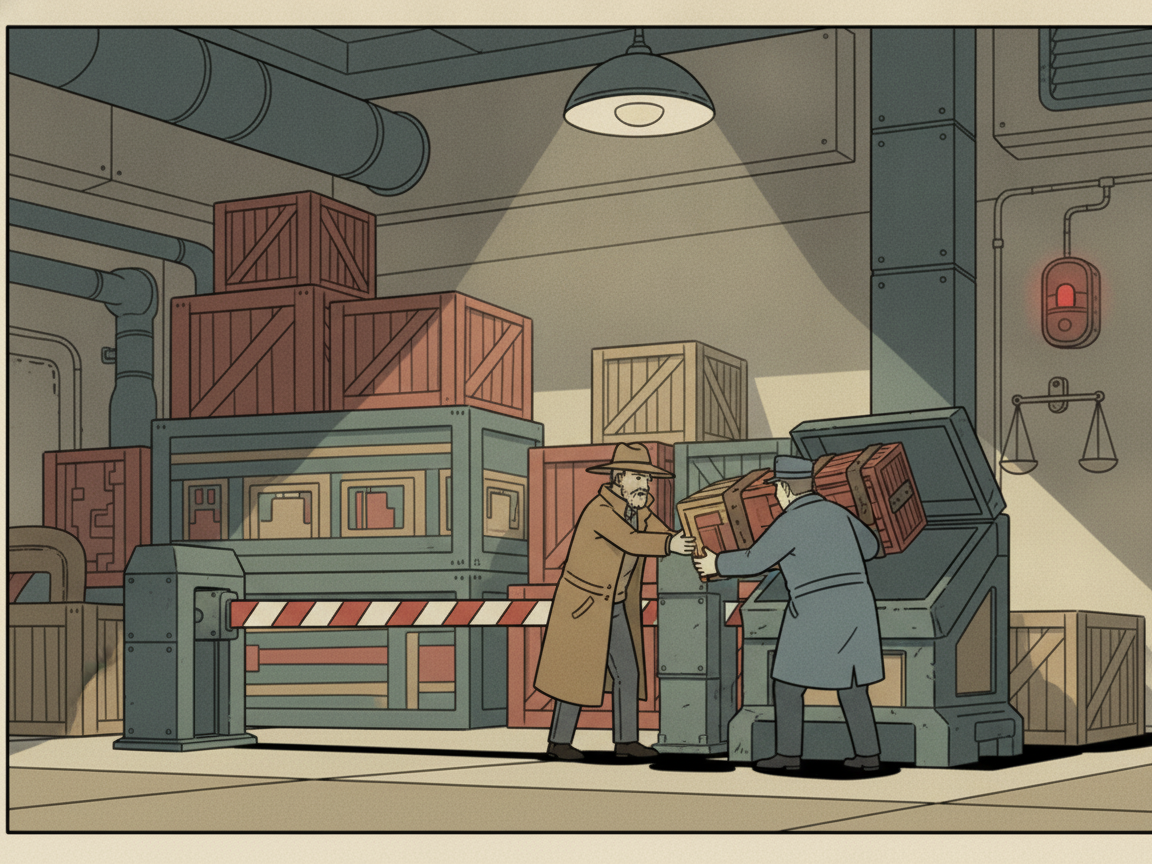
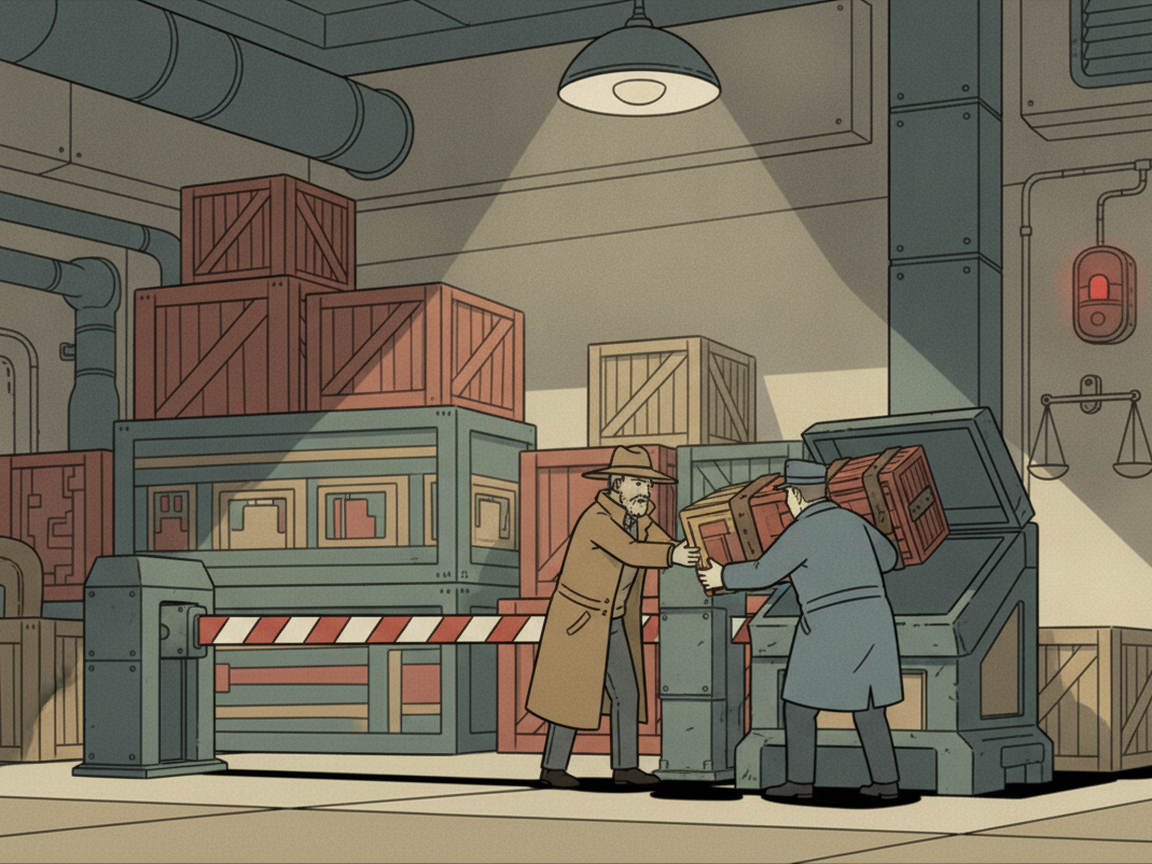
fix(art): standardize full-bleed borders, regenerate grounded sol_retaliation, and label crisis sheet (#73)

diff --git a/docs/art/encounter-sheets.md b/docs/art/encounter-sheets.md
@@ -66,7 +66,7 @@ Keyed 1:1 to the baron event IDs in `game/data/crises.json`:
 
 ### `sol_retaliation` (`card-sol-retaliation`)
 - **Name in Data:** "Sol Audit" (`baron_archetype: auctioneer`, `origin: consequence`)
-- **Visual Anatomy:** A central government audit fleet looming over a small trader ship; a tall pale-bone administrative tower station behind; one tractor beam locking onto the hull. [Card Proof](../screens/encounter-samples/card-sol-retaliation.png)
+- **Visual Anatomy:** Cavernous orbital customs docking hangar with Sol central government audit inspectors and heavy armored patrol cutters impounding a small merchant vessel; inked steel gangways and heavy metal deck plates; tall pale-bone administrative inspection tower rising behind the berth; harsh conical overhead floodlights and glowing teal tractor beam pinning the ship to the mooring cradle. [Card Proof](../screens/encounter-samples/card-sol-retaliation.png)
 
 ### `ares_opportunistic_squeeze` (`card-ares-opportunistic-squeeze`)
 - **Name in Data:** "Ares Squeeze" (`baron_archetype: short_squeezer`, `origin: random`)

diff --git a/docs/art/prompt-bible.md b/docs/art/prompt-bible.md
@@ -303,7 +303,7 @@ Eleven cards come 1:1 from real ids in `game/data/crises.json` (the 8 standard a
 - sample: no
 - ref: antitrust_audit
 - source: sol_retaliation
-- prompt: Encounter card illustration, wide 4:3 composition: A central government audit fleet looming over a small trader ship, a tall pale-bone administrative tower station behind, one beam locking onto the hull.
+- prompt: Encounter card illustration, wide 4:3 composition: Inside a cavernous orbital customs docking hangar, Sol central government audit inspectors and heavy armored patrol cutters impounding a small merchant vessel. Inked steel gangways, heavy metal deck plates on the ground, tall pale-bone administrative inspection tower rising behind the berth, harsh conical overhead floodlights cutting across the dock, glowing teal tractor beam pinning the ship to the mooring cradle. Stark dark slate and teal shadows, heavy ligne claire ink contours, flat graphic shadows, running to the image edges with no border or frame.
 
 ### card-ares-opportunistic-squeeze
 - batch: 6.5
